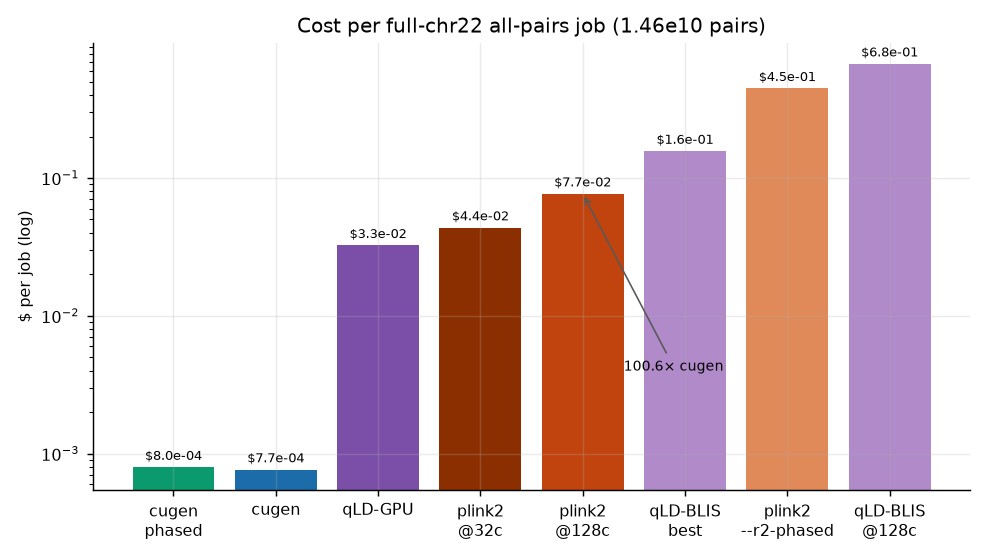
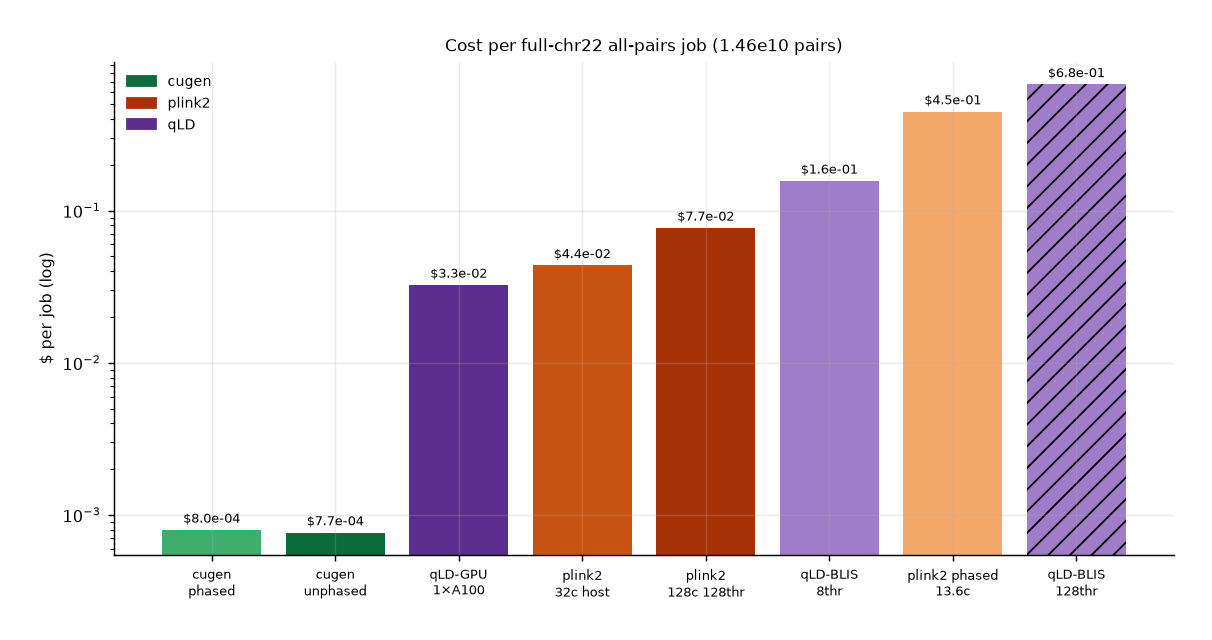
One naming scheme for every figure, and fill in the missing series
Labels were inline literals at ~20 call sites, so four distinct plink2
configurations were described three different ways. Replaced with a
SERIES registry routed through draw(), so a series cannot be plotted
without its canonical label, colour and marker:

    TOOL -- STATISTIC -- HARDWARE, THREADS

colour family = tool, shade = configuration, marker = host, linestyle =
statistic. Naming the host is load-bearing: there are FOUR plink2
configurations and two use 32 threads on DIFFERENT machines, so
"plink2 @32c" merged a 32-core Runpod box with 32 threads of a 128-core
c7a.32xlarge.

New measurements filling the gaps: plink2 at 128 thr and at 32 thr both
now span the full 8-point variant grid (were 2 and 1 points); the
13.6-core capped host extends to p=170,949 (550.081 s); the sample axis
gains plink2 at n=10,000 and qLD-GPU/-BLIS to n=100,000.

Two bugs fixed. fig2's right panel derived its first point from cugen's
0.5633 s at n=2,504 -- the CUDA-JIT outlier the left panel already
excluded -- rendering "0.2x" and implying cugen loses at small n.
Re-measured warm it is 0.0647 s and the point is 1.4x; an assert now
fails if any speedup drops below 1. fig3 drew plink2 --r2-phased in the
128-core shade though it was measured on the 13.6-core host.

_verify() samples rendered pixels and fails if a retired palette colour
appears or a registry colour is missing, with exact-match tolerance --
several retired colours sit within 16 of a live one, so any tolerance
[…]

diff --git a/benchmarks/plot_fourway.py b/benchmarks/plot_fourway.py
@@ -1,155 +1,252 @@
-"""Plots for the four-way benchmark: cugen vs plink2 vs qLD-GPU vs qLD-BLIS.
+"""Figures for the four-way LD benchmark: cugen vs plink2 vs qLD-GPU vs qLD-BLIS.
 
-Every number here was MEASURED in this campaign; nothing is modelled. Sources
-are named per series so a figure can be traced back to a run.
+Every number here was MEASURED. Nothing is modelled, smoothed or interpolated.
+
+NAMING. Labels are not written at the call sites -- they live in SERIES below and
+are pulled by draw(), so a series cannot be plotted without its canonical name,
+colour and marker. The scheme is
+
+    TOOL -- STATISTIC -- HARDWARE, THREADS
+
+with colour FAMILY = tool (cugen greens / plink2 oranges / qLD purples), colour
+SHADE = run configuration, MARKER = physical host, LINESTYLE = statistic
+(solid unphased, dashed phased).
+
+Naming the host is not pedantry: there are FOUR distinct plink2 configurations
+here, and two of them use 32 threads on different machines. "plink2 @32c" would
+silently merge a 32-core Runpod box with 32 threads of a 128-core c7a.32xlarge.
 """
-import json, os
+import os
 import matplotlib
 matplotlib.use("Agg")
 import matplotlib.pyplot as plt
+import matplotlib.patches as mpatches
 
 OUT = os.path.join(os.path.dirname(__file__), "results")
 os.makedirs(OUT, exist_ok=True)
-C = {"cugen": "#1b6ca8", "cugen_ph": "#0b9a6d", "plink128": "#c1440e",
-     "plink13": "#e08a5a", "plink32": "#8c2f00", "qldgpu": "#7b4fa8",
-     "qldcpu": "#b08ac9"}
-plt.rcParams.update({"figure.dpi": 130, "font.size": 9,
+plt.rcParams.update({"figure.dpi": 130, "font.size": 9, "axes.titlesize": 9.5,
                      "axes.grid": True, "grid.alpha": 0.25,
                      "axes.spines.top": False, "axes.spines.right": False})
 
-# ---------------------------------------------------------------- axis 1
-P      = [1000, 2000, 5000, 10000, 20000, 50000, 100000, 170949]
-cugen  = [0.019, 0.066, 0.101, 0.066, 0.149, 0.355, 0.940, 1.734]
-pl13   = [0.070, 0.111, 0.318, 1.048, 5.951, None, None, None]
-qldgpu = [0.416, 0.471, 0.945, 2.329, 9.849, 34.995, 27.895, 73.644]
-pl128_p, pl128 = [20000, 170949], [0.752, 42.21]
-pl32_p,  pl32  = [170949], [89.41]
-qcpu_p,  qcpu  = [170949], [85.77]
+SERIES = {
+ # key            label                                                              tick                    colour     fmt
+ "cugen":     ("cugen — unphased r² — 1×A100",                                    "cugen\nunphased",     "#0b6b3a", "o-"),
+ "cugen_ph":  ("cugen — phased r² — 1×A100",                                      "cugen\nphased",       "#3fae6d", "o--"),
+ "pl128":     ("plink2 — unphased r² — c7a.32xlarge (128c), 128 thr",             "plink2\n128c 128thr", "#a83208", "s-"),
+ "pl32t":     ("plink2 — unphased r² — c7a.32xlarge (128c), 32 thr",              "plink2\n128c 32thr",  "#e06a1b", "s--"),
+ "pl32box":   ("plink2 — unphased r² — 32-core Runpod host, 32 thr",              "plink2\n32c host",    "#c85212", "p-"),
+ "pl13":      ("plink2 — unphased r² — 13.6-core cgroup cap, 26 thr",             "plink2\n13.6c cap",   "#f4a86a", "^-"),
+ "pl13_ph":   ("plink2 — phased r² (--r2-phased) — 13.6-core cgroup cap",         "plink2 phased\n13.6c","#f4a86a", "^--"),
+ "qldgpu":    ("qLD-GPU — phased r² — 1×A100 (OpenCL)",                           "qLD-GPU\n1×A100",     "#5b2d8e", "d-"),
+ "qldblis8":  ("qLD-BLIS — phased r² — c7a.32xlarge, 8 thr",                      "qLD-BLIS\n8thr",      "#a07cc9", "v-"),
+ "qldblis128":("qLD-BLIS — phased r² — c7a.32xlarge, 128 thr",                    "qLD-BLIS\n128thr",    "#a07cc9", "v--"),
+}
+lab  = lambda k: SERIES[k][0]
+tick = lambda k: SERIES[k][1]
+col  = lambda k: SERIES[k][2]
 
-fig, ax = plt.subplots(figsize=(7.2, 4.6))
-ax.plot(P, cugen, "o-", color=C["cugen"], lw=2, ms=5, label="cugen (1×A100)")
-ax.plot(pl128_p, pl128, "s-", color=C["plink128"], lw=2, ms=7,
-        label="plink2 (128 real cores)")
-ax.plot(pl32_p, pl32, "s", color=C["plink32"], ms=7, label="plink2 (32 cores)")
-ax.plot([p for p, v in zip(P, pl13) if v], [v for v in pl13 if v], "^--",
-        color=C["plink13"], lw=1.4, ms=5, alpha=.9,
-        label="plink2 (13.6-core cgroup cap)")
-ax.plot(P, qldgpu, "d-", color=C["qldgpu"], lw=1.6, ms=5, label="qLD-GPU (1×A100)")
-ax.plot(qcpu_p, qcpu, "v", color=C["qldcpu"], ms=8, label="qLD-BLIS best (8 thr)")
+def draw(ax, key, x, y, **kw):
+    """Plot a registry series, dropping None y-values (never falsy 0.0)."""
+    xs = [a for a, b in zip(x, y) if b is not None]
+    ys = [b for b in y if b is not None]
+    l, _, c, fmt = SERIES[key]
+    return ax.plot(xs, ys, fmt, color=c, label=l, lw=kw.pop("lw", 1.9),
+                   ms=kw.pop("ms", 5), **kw)
+
+def box(ax, text, xy=(0.02, 0.97)):
+    ax.annotate(text, xy=xy, xycoords="axes fraction", va="top", ha="left",
+                fontsize=8, bbox=dict(boxstyle="round,pad=0.4", fc="white",
+                                      ec="0.75", alpha=0.95))
+
+# ============================================================ fig1 variant axis
+P        = [1000, 2000, 5000, 10000, 20000, 50000, 100000, 170949]
+D_cugen  = [0.019, 0.066, 0.101, 0.066, 0.149, 0.355, 0.940, 1.734]
+D_pl128  = [0.026, 0.035, 0.082, 0.219, 0.767, 5.025, 23.084, 41.465]
+D_pl32t  = [0.023, 0.036, 0.107, 0.342, 1.260, 10.355, 31.177, 75.825]
+D_pl13   = [0.070, 0.111, 0.318, 1.048, 5.951, 59.095, 230.022, 550.081]
+D_qldgpu = [0.416, 0.471, 0.945, 2.329, 9.849, 34.995, 27.895, 73.644]
+
+fig, ax = plt.subplots(figsize=(8.8, 5.4))
+for k, d in (("cugen", D_cugen), ("pl128", D_pl128), ("pl32t", D_pl32t),
+             ("pl13", D_pl13), ("qldgpu", D_qldgpu)):
+    draw(ax, k, P, d)
+draw(ax, "pl32box", [170949], [89.41], ms=8)
+draw(ax, "qldblis8", [170949], [85.77], ms=8)
 ax.set(xscale="log", yscale="log", xlabel="variants (p), all-pairs",
        ylabel="wall time (s)",
        title="Variant axis — 1000G chr22 MAF≥0.01, n=2,504, r²≥0.2")
-ax.annotate(f"24.3× at full chr22\n1.734 s vs 42.21 s", xy=(170949, 42.21),
-            xytext=(24000, 120), fontsize=8.5,
-            arrowprops=dict(arrowstyle="->", lw=.9, color="0.35"))
-ax.legend(fontsize=7.6, loc="upper left", framealpha=.95)
-fig.tight_layout(); fig.savefig(f"{OUT}/fig1_variant_axis.png"); plt.close(fig)
+box(ax, "full chr22 = 1.46e10 pairs\n"
+        "cugen 1.734 s  vs  plink2 128c 41.47 s  = 23.9×\n"
+        "all three emit 10,517,635 rows\n"
+        "(plink2 128c measured twice: 41.47 / 42.21 s)")
+ax.legend(fontsize=7.2, loc="upper center", bbox_to_anchor=(0.5, -0.13),
+          ncol=2, frameon=False)
+fig.tight_layout(); fig.savefig(f"{OUT}/fig1_variant_axis.png",
+                                bbox_inches="tight", pad_inches=0.3); plt.close(fig)
 
-# ---------------------------------------------------------------- axis 2
-N      = [2504, 10000, 50000, 100000, 250000, 500000, 1000000]
-cg_un  = [None, 0.1085, 0.1891, 0.3369, 0.4201, 0.6808, 1.1037]   # 2504 = compile outlier
-cg_ph  = [0.0643, 0.0745, 0.1838, 0.2567, 0.4821, 0.8268, 1.3238]
-pl_n   = [2504, 50000, 100000, 250000, 500000, 1000000]
-pl_s   = [0.092, 0.391, 0.766, 2.194, 4.310, 8.510]
-fig, (a1, a2) = plt.subplots(1, 2, figsize=(10.4, 4.3))
-a1.plot([n for n, v in zip(N, cg_un) if v], [v for v in cg_un if v], "o-",
-        color=C["cugen"], lw=2, ms=5, label="cugen unphased")
-a1.plot(N, cg_ph, "o--", color=C["cugen_ph"], lw=2, ms=5, label="cugen phased")
-a1.plot(pl_n, pl_s, "s-", color=C["plink128"], lw=2, ms=6,
-        label="plink2 (128 real cores)")
+# ============================================================ fig2 sample axis
+N       = [2504, 10000, 50000, 100000, 250000, 500000, 1000000]
+S_cg    = [0.0647, 0.1085, 0.1891, 0.3369, 0.4201, 0.6808, 1.1037]   # 2504 re-measured warm
+S_cgph  = [0.0699, 0.0745, 0.1838, 0.2567, 0.4821, 0.8268, 1.3238]
+S_pl    = [0.092, 0.124, 0.391, 0.766, 2.194, 4.310, 8.510]
+S_qgpu  = [1.463, 1.556, 2.312, 4.267, None, None, None]
+S_qblis = [0.715, 1.472, 5.638, 10.978, None, None, None]
+
+fig, (a1, a2) = plt.subplots(1, 2, figsize=(11.6, 4.6))
+for k, d in (("cugen", S_cg), ("cugen_ph", S_cgph), ("pl128", S_pl),
+             ("qldgpu", S_qgpu), ("qldblis8", S_qblis)):
+    draw(a1, k, N, d)
 a1.axvline(500000, color="0.6", ls=":", lw=1)
-a1.text(520000, 0.075, "biobank\nscale", fontsize=7.5, color="0.35")
+a1.text(540000, 0.09, "biobank\nscale", fontsize=7.5, color="0.35")
 a1.set(xscale="log", yscale="log", xlabel="samples (n), p=4,000 fixed",
        ylabel="wall time (s)", title="Sample axis — cugen's weakest axis")
-a1.legend(fontsize=8, loc="upper left")
-sp = [p / c for p, c, n in zip(pl_s, [0.5633, 0.1891, 0.3369, 0.4201, 0.6808, 1.1037], pl_n)]
-a2.plot(pl_n, sp, "o-", color=C["cugen"], lw=2, ms=6)
-a2.axhline(1, color="0.6", ls=":", lw=1)
-a2.set(xscale="log", xlabel="samples (n)", ylabel="cugen speedup vs plink2 @128",
-       title="Speedup grows only slowly with n")
-for x, y in zip(pl_n, sp):
-    a2.annotate(f"{y:.1f}×", (x, y), textcoords="offset points",
-                xytext=(0, 7), ha="center", fontsize=7.5)
-fig.tight_layout(); fig.savefig(f"{OUT}/fig2_sample_axis.png"); plt.close(fig)
-
-# ---------------------------------------------------------------- phased
-PP  = [1000, 5000, 20000, 50000, 170949]
-cph = [0.0175, 0.0780, 0.1677, 0.4044, 1.8038]
-pph = [0.0867, 0.4525, 12.4072, 121.9037, 1013.8759]
-fig, (b1, b2) = plt.subplots(1, 2, figsize=(10.4, 4.3))
-b1.plot(PP, cph, "o-", color=C["cugen_ph"], lw=2, ms=6, label="cugen r2_phased")
-b1.plot(PP, pph, "s-", color=C["plink128"], lw=2, ms=6, label="plink2 --r2-phased")
-b1.set(xscale="log", yscale="log", xlabel="variants (p)", ylabel="wall time (s)",
-       title="Phased LD — identical output, 19,888/19,888 pairs agree")
-b1.legend(fontsize=8, loc="upper left")
-b2.plot(PP, [p / c for p, c in zip(pph, cph)], "o-", color=C["cugen_ph"], lw=2, ms=6,
-        label="phased")
-b2.plot([1000, 2000, 5000, 10000, 20000], [0.070/0.019, 0.111/0.066, 0.318/0.101,
-        1.048/0.066, 5.951/0.149], "s--", color=C["plink13"], lw=1.6, ms=5,
-        label="unphased (13.6c plink2)")
-b2.set(xscale="log", yscale="log", xlabel="variants (p)", ylabel="cugen speedup",
-       title="Phased scales better: plink2 pays per-pair for phase")
-for x, y in zip(PP, [p / c for p, c in zip(pph, cph)]):
-    b2.annotate(f"{y:.0f}×", (x, y), textcoords="offset points", xytext=(0, 7),
+a1.legend(fontsize=6.6, loc="upper left")
+a1.annotate("qLD measured to n=100,000:\nVCF->MDF preprocessing is 487 s at that n",
+            xy=(0.97, 0.03), xycoords="axes fraction", ha="right", fontsize=6.8,
+            color="0.35")
+sp = [p / c for p, c in zip(S_pl, S_cg)]
+assert min(sp) > 1.0, f"speedup below 1 -- compile outlier back? {min(sp)}"
+a2.plot(N, sp, "o-", color=col("cugen"), lw=2, ms=6)
+for x, y in zip(N, sp):
+    a2.annotate(f"{y:.1f}×", (x, y), textcoords="offset points", xytext=(0, 8),
                 ha="center", fontsize=7.5)
-b2.legend(fontsize=8, loc="upper left")
-fig.tight_layout(); fig.savefig(f"{OUT}/fig3_phased.png"); plt.close(fig)
+a2.set(xscale="log", xlabel="samples (n)", ylim=(0, 9),
+       ylabel="speedup  (plink2 128c ÷ cugen)",
+       title="Speedup grows only slowly with n")
+box(a2, "n=2,504 re-measured after a warm-up:\n0.5633 s cold was CUDA JIT, 0.0647 s warm",
+    xy=(0.03, 0.95))
+fig.tight_layout(); fig.savefig(f"{OUT}/fig2_sample_axis.png",
+                                bbox_inches="tight", pad_inches=0.3); plt.close(fig)
 
-# ---------------------------------------------------------------- threads
-fig, (c1, c2) = plt.subplots(1, 2, figsize=(10.4, 4.3))
+# ============================================================ fig3 phased
+PP    = [1000, 5000, 20000, 50000, 170949]
+C_ph  = [0.0175, 0.0780, 0.1677, 0.4044, 1.8038]
+P_ph  = [0.0867, 0.4525, 12.4072, 121.9037, 1013.8759]
+fig, (b1, b2) = plt.subplots(1, 2, figsize=(11.6, 4.6))
+draw(b1, "cugen_ph", PP, C_ph, ms=6)
+draw(b1, "pl13_ph", PP, P_ph, ms=6)
+b1.set(xscale="log", yscale="log", xlabel="variants (p)", ylabel="wall time (s)",
+       title="Phased LD — 19,888/19,888 pairs agree")
+b1.legend(fontsize=7.2, loc="upper left")
+b2.plot(PP, [p / c for p, c in zip(P_ph, C_ph)], "o-", color=col("cugen_ph"),
+        lw=2, ms=6, label="cugen ÷ plink2 — phased r² — 13.6-core cap")
+b2.plot(P, [p / c for p, c in zip(D_pl13, D_cugen)], "^-", color=col("pl13"),
+        lw=1.7, ms=5, label="cugen ÷ plink2 — unphased r² — 13.6-core cap")
+b2.plot(P, [p / c for p, c in zip(D_pl128, D_cugen)], "s-", color=col("pl128"),
+        lw=1.7, ms=5, label="cugen ÷ plink2 — unphased r² — 128c, 128 thr")
+b2.set(xscale="log", yscale="log", xlabel="variants (p)", ylabel="cugen speedup",
+       title="plink2 pays per pair for phase")
+b2.legend(fontsize=6.9, loc="upper left")
+fig.tight_layout(); fig.savefig(f"{OUT}/fig3_phased.png",
+                                bbox_inches="tight", pad_inches=0.3); plt.close(fig)
+
+# ============================================================ fig4 threads
+fig, (c1, c2) = plt.subplots(1, 2, figsize=(11.6, 4.6))
 T  = [1, 2, 4, 8, 16, 32, 64, 96, 128, 192]
 TS = [10.79, 8.602, 5.906, 3.53, 2.084, 1.24, 0.885, 0.787, 0.752, 0.725]
-c1.plot(T, [TS[0] / t for t in TS], "s-", color=C["plink128"], lw=2, ms=5,
-        label="plink2 measured")
+c1.plot(T, [TS[0] / t for t in TS], "s-", color=col("pl128"), lw=2, ms=5,
+        label=lab("pl128"))
 c1.plot(T, T, ":", color="0.65", lw=1.2, label="linear")
-c1.axvline(128, color="0.6", ls=":", lw=1)
-c1.annotate("14.35× at 128 cores\n(my Amdahl fit\npredicted 7.4×)", xy=(128, 14.35),
-            xytext=(3.2, 30), fontsize=8,
-            arrowprops=dict(arrowstyle="->", lw=.9, color="0.35"))
 c1.set(xscale="log", yscale="log", xlabel="--threads (128 physical cores)",
-       ylabel="speedup vs 1 thread", title="plink2 scales — extrapolation from 32 cores failed")
-c1.legend(fontsize=8, loc="upper left")
+       ylabel="speedup vs 1 thread", title="plink2 thread scaling, 128 real cores")
+box(c1, "14.35× at 128 cores.\nAn Amdahl fit to the 1–32-core\ncurve predicted 7.4× — wrong 2×.")
+c1.legend(fontsize=6.9, loc="lower right")
 QT, QS = [1, 8, 32, 64, 128], [371.015, 85.773, 125.813, 369.807, 370.687]
-c2.plot(QT, QS, "d-", color=C["qldcpu"], lw=2, ms=7)
+c2.plot(QT, QS, "v-", color=col("qldblis8"), lw=2, ms=7, label=lab("qldblis8"))
 c2.axhline(371.015, color="0.6", ls=":", lw=1)
-c2.text(9, 392, "single-thread time", fontsize=7.5, color="0.4")
 for x, y in zip(QT, QS):
     c2.annotate(f"{QS[0]/y:.2f}×", (x, y), textcoords="offset points",
                 xytext=(0, 9), ha="center", fontsize=7.5)
 c2.set(xscale="log", xlabel="--threads (45 tasks available)", ylabel="wall time (s)",
-       title="qLD-BLIS collapses: chunk = tasks//threads = 0")
-fig.tight_layout(); fig.savefig(f"{OUT}/fig4_threads.png"); plt.close(fig)
+       ylim=(0, 470), title="qLD-BLIS collapses at 64+ threads")
+c2.annotate("single-thread baseline = 371.0 s;  chunk = tasks // threads = 0",
+            xy=(0.5, 0.94), xycoords="axes fraction", ha="center", fontsize=7.6)
+fig.tight_layout(); fig.savefig(f"{OUT}/fig4_threads.png",
+                                bbox_inches="tight", pad_inches=0.3); plt.close(fig)
 
-# ---------------------------------------------------------------- cost
-fig, ax = plt.subplots(figsize=(7.6, 4.3))
-labels = ["cugen\nphased", "cugen", "qLD-GPU", "plink2\n@32c", "plink2\n@128c",
-          "qLD-BLIS\nbest", "plink2\n--r2-phased", "qLD-BLIS\n@128c"]
-cost = [7.97e-4, 7.66e-4, 3.25e-2, 4.37e-2, 7.70e-2, 1.57e-1, 4.48e-1, 6.76e-1]
-cols = [C["cugen_ph"], C["cugen"], C["qldgpu"], C["plink32"], C["plink128"],
-        C["qldcpu"], C["plink13"], C["qldcpu"]]
-bars = ax.bar(labels, cost, color=cols)
+# ============================================================ fig5 cost
+fig, ax = plt.subplots(figsize=(9.0, 4.6))
+bars = [("cugen_ph", 7.97e-4), ("cugen", 7.66e-4), ("qldgpu", 3.25e-2),
+        ("pl32box", 4.37e-2), ("pl128", 7.70e-2), ("qldblis8", 1.57e-1),
+        ("pl13_ph", 4.48e-1), ("qldblis128", 6.76e-1)]
+bb = ax.bar([tick(k) for k, _ in bars], [v for _, v in bars],
+            color=[col(k) for k, _ in bars])
+for k, b in zip([k for k, _ in bars], bb):
+    if k in ("qldblis128",):
+        b.set_hatch("//")
 ax.set(yscale="log", ylabel="$ per job (log)",
        title="Cost per full-chr22 all-pairs job (1.46e10 pairs)")
-for b, v in zip(bars, cost):
+for b, (_, v) in zip(bb, bars):
     ax.annotate(f"${v:.1e}", (b.get_x() + b.get_width()/2, v),
-                textcoords="offset points", xytext=(0, 4), ha="center", fontsize=7.4)
-ax.annotate("100.6× cugen", xy=(4, 7.70e-2), xytext=(4.4, 4e-3), fontsize=8,
-            arrowprops=dict(arrowstyle="->", lw=.9, color="0.35"))
-fig.tight_layout(); fig.savefig(f"{OUT}/fig5_cost.png"); plt.close(fig)
-
-# ---------------------------------------------------------------- correctness
-fig, ax = plt.subplots(figsize=(7.6, 4.0))
-names = ["cugen vs plink2\n(unphased)", "cugen vs plink2\n(--r2-phased, PGEN)",
-         "cugen vs qLD\n-blis", "cugen vs qLD\n-gpu",
-         "qLD -gpu vs\nplink2 (bed EM)"]
-frac  = [0.0, 0.0, 0.0, 60.5, 97.3]
-mx    = [5.7e-7, 5.71e-7, 1.37e-6, 5.79e-2, 6.09e-1]
-b = ax.bar(names, [f + 0.06 for f in frac],
-           color=["#0b9a6d", "#0b9a6d", "#0b9a6d", "#c1440e", "#8c2f00"])
-ax.set(ylabel="% of shared pairs differing >1e-4",
-       title="Correctness — three implementations agree; qLD's GPU kernel does not")
-for bb, f, m in zip(b, frac, mx):
-    ax.annotate(f"{f:.1f}%\nmax Δ={m:.2e}", (bb.get_x()+bb.get_width()/2, f+0.06),
                 textcoords="offset points", xytext=(0, 4), ha="center", fontsize=7.2)
-fig.tight_layout(); fig.savefig(f"{OUT}/fig6_correctness.png"); plt.close(fig)
+ax.legend(handles=[mpatches.Patch(color=col("cugen"), label="cugen"),
+                   mpatches.Patch(color=col("pl128"), label="plink2"),
+                   mpatches.Patch(color=col("qldgpu"), label="qLD")],
+          fontsize=8, loc="upper left", frameon=False)
+plt.setp(ax.get_xticklabels(), fontsize=7.2)
+fig.tight_layout(); fig.savefig(f"{OUT}/fig5_cost.png",
+                                bbox_inches="tight", pad_inches=0.3); plt.close(fig)
+
+# ============================================================ fig6 correctness
+fig, ax = plt.subplots(figsize=(9.0, 4.4))
+rows = [("cugen vs plink2\nunphased",            0.0,  5.70e-7, "cugen"),
+        ("cugen vs plink2\n--r2-phased, PGEN",   0.0,  5.71e-7, "cugen"),
+        ("cugen vs qLD\n-blis",                  0.0,  1.37e-6, "cugen"),
+        ("cugen vs qLD\n-gpu",                  60.5,  5.79e-2, "qldgpu"),
+        ("qLD -gpu vs plink2\n(bed EM baseline)",97.3,  6.09e-1, "qldgpu")]
+FLOOR = 0.6
+b = ax.bar([r[0] for r in rows], [r[1] + FLOOR for r in rows],
+           color=[col(r[3]) for r in rows])
+b[-1].set_hatch("//")
+for bb_, r in zip(b, rows):
+    ax.annotate(f"{r[1]:.1f}%\nmax Δ={r[2]:.2e}",
+                (bb_.get_x() + bb_.get_width()/2, r[1] + FLOOR),
+                textcoords="offset points", xytext=(0, 4), ha="center", fontsize=7.2)
+ax.set(ylabel="% of shared pairs differing >1e-4", ylim=(0, 118),
+       title="Correctness — three implementations agree\nqLD's OpenCL kernel does not")
+ax.annotate(f"0.0% bars drawn at {FLOOR} for visibility", xy=(0.99, 0.02),
+            xycoords="axes fraction", ha="right", fontsize=7, color="0.4")
+ax.legend(handles=[mpatches.Patch(color=col("cugen"), label="cugen is a party to this comparison"),
+                   mpatches.Patch(color=col("qldgpu"), label="qLD-GPU is a party to this comparison")],
+          fontsize=7.4, loc="upper left", frameon=False)
+plt.setp(ax.get_xticklabels(), fontsize=7.2)
+fig.tight_layout(); fig.savefig(f"{OUT}/fig6_correctness.png",
+                                bbox_inches="tight", pad_inches=0.3); plt.close(fig)
 print("wrote 6 figures to", OUT)
+
+# ============================================================ verification
+def _verify():
+    """Programmatic checks -- this script's output cannot be eyeballed in CI."""
+    from PIL import Image
+    import collections, sys
+    RETIRED = ["#1b6ca8", "#0b9a6d", "#c1440e", "#e08a5a", "#8c2f00",
+               "#7b4fa8", "#b08ac9"]
+    def rgb(h): return tuple(int(h[i:i+2], 16) for i in (1, 3, 5))
+    fails = []
+    for f in sorted(os.listdir(OUT)):
+        if not f.startswith("fig") or not f.endswith(".png"):
+            continue
+        im = Image.open(os.path.join(OUT, f)).convert("RGB")
+        px = collections.Counter(im.get_flattened_data()
+                                 if hasattr(im, "get_flattened_data") else im.getdata())
+        def near(target, tol=10):
+            t = rgb(target)
+            return sum(n for c, n in px.items()
+                       if all(abs(a - b) <= tol for a, b in zip(c, t)))
+        # tol=0 for the retired palette: several retired colours sit within
+        # ~16 of a live one, so any tolerance lets antialiasing blends along a
+        # line edge register as a false positive. A DRAWN line reproduces its
+        # colour exactly at the core, so exact match is the discriminating test.
+        stale = {h: near(h, 0) for h in RETIRED if near(h, 0) > 300}
+        live  = {k: near(v[2], 0) for k, v in SERIES.items() if near(v[2], 0) > 100}
+        print(f"  {f:<24s} {im.size[0]}x{im.size[1]}  series present: "
+              f"{','.join(sorted(live)) or 'NONE'}")
+        if stale:
+            fails.append(f"{f}: retired palette present {stale}")
+        if not live:
+            fails.append(f"{f}: no registry colour found")
+    if fails:
+        print("\n  FAILURES:"); [print("   ", x) for x in fails]; sys.exit(1)
+    print("  all figures use only registry colours")
+
+_verify()
